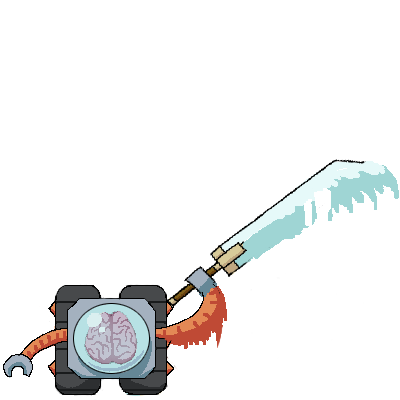
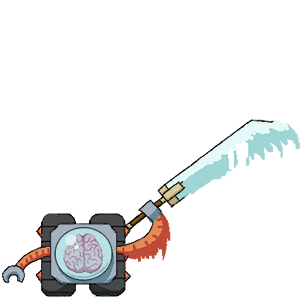
spin anim
spin anim

diff --git a/Assets/CharacterScrips/Dash.cs b/Assets/CharacterScrips/Dash.cs
@@ -88,6 +88,8 @@ public class Dash : MonoBehaviour {
     public void Explode()
     {
         //kill all things near player
+		dashing.SetBool ("spinattack", true);
+		dashing.Play ("spinattack");
         murderAll(Physics2D.OverlapCircleAll(transform.position, explodeRadius));
     }
 
@@ -109,7 +111,8 @@ public class Dash : MonoBehaviour {
 
     private void murderCast(RaycastHit2D[] hits)
     {
-        Collider2D[] r = new Collider2D[hits.Length];
+		
+		Collider2D[] r = new Collider2D[hits.Length];
         for(int i = 0; i < hits.Length; ++i)
         {
             r[i] = hits[i].collider;
